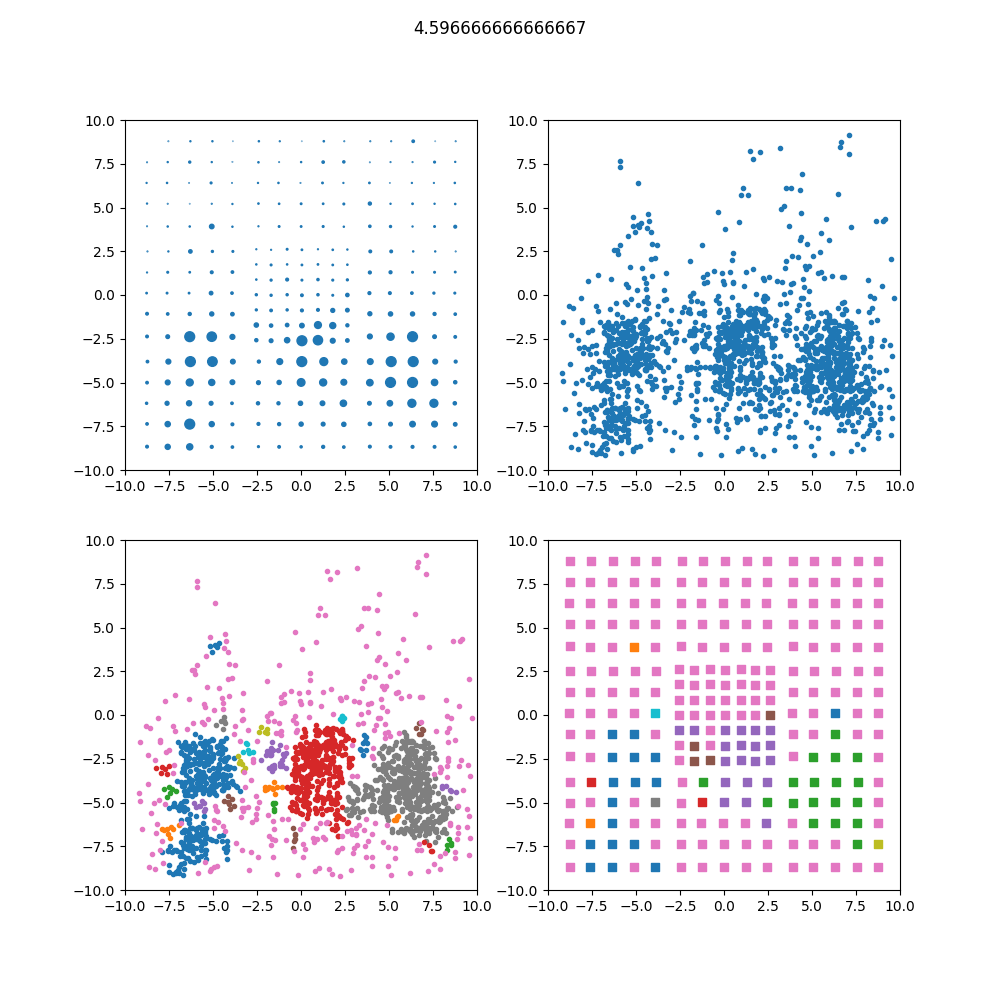
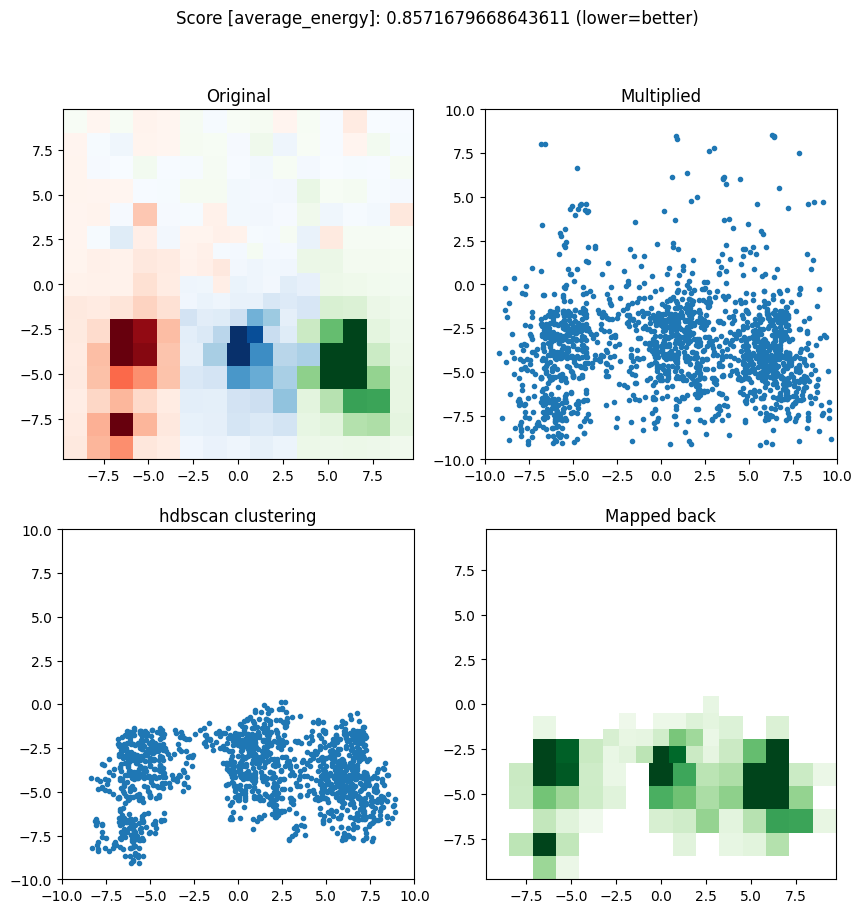
Latest changes

diff --git a/optimize.py b/optimize.py
@@ -22,7 +22,8 @@ from lib.modified_aggregation_clusterer import ModifiedAggregationClusterer
 import lib.base_nn as BNN
 import lib.unet_nn as UNet
 from lib.train import Train
-from lib import efficiency, coverage, vmeas, compute_score,              count_clusters,count_labels
+from lib.focal import FocalH
+from lib import efficiency, coverage, vmeas, compute_score, average_energy,              count_clusters,count_labels
 import torch
 import torch.nn as nn
 from sklearn.model_selection import train_test_split
@@ -117,21 +118,21 @@ def handle_method(data: Any, method: str, its: int):
             print(f"Optimizing {method_name}")
             study = sklearn_optimize(data, method, its)
             print("Study done. Saving to file.")
-            save_study(study, data, its, method_name)
+            save_study(study, data, its, method)
             print("Saved.")
 
         case "hdbscan":
             print(f"Optimizing {method_name}")
             study = sklearn_optimize(data, method, its)
             print("Study done. Saving to file.")
-            save_study(study, data, its, method_name)
+            save_study(study, data, its, method)
             print("Saved.")
 
         case "baygauss":
             print(f"Optimizing {method_name}")
             study = sklearn_optimize(data, method, its)
             print("Study done. Saving to file.")
-            save_study(study, data, its, method_name)
+            save_study(study, data, its, method)
             print("Saved.")
 
         case _:
@@ -204,7 +205,7 @@ def ma_optimize(data: Any, method: Any, its: int):
         score = np.zeros(len(values), dtype=np.float32)
         tags = ma_cluster.cluster(*pars, adj, values)
 
-        score = compute_score(tags, labels, values, "efficiency")
+        score = compute_score(tags, labels, values, "average_energy")
 
         return (score.mean()-1)**2
 
@@ -368,57 +369,61 @@ def sklearn_optimize(data, method, its):
                 pars = dict()
                 unpack_parameters(pars, trial, method) # Also does trial.suggest
                 model = mixture.BayesianGaussianMixture(**pars)
+            case "kmeans":
+                pars = dict()
+                unpack_parameters(pars, trial, method) # Also does trial.suggest
+                model = cluster.KMeans(**pars)
             case _:
                 raise ValueError(f"Unknown method: {method_name}")
 
         """
         Cluster and evaluate
         """
-        print(f"Clustering with {method_name}...")
         if method["labels"] == True:
             for i in range(len(X)):
                 model.fit(X[i])
                 Y[i] = model.labels_.astype(int)
-                Y[i] += Y[i]+1 # Not clustered is 0 in my clustering methods
+                Y[i] += 1 # Not clustered is 0 in my clustering methods
                 cl[i] = dataloader.kdtree_map(X[i], np.column_stack([x[i], y[i]]), Y[i])
         else:
             for i in range(len(X)):
                 model.fit(X[i])
                 Y[i] = model.predict(X[i])
-                Y[i] += Y[i]+1 # Not clustered is 0 in my clustering methods
+                Y[i] += 1 # Not clustered is 0 in my clustering methods
                 cl[i] = dataloader.kdtree_map(X[i], np.column_stack([x[i], y[i]]), Y[i])
 
-        score = np.zeros(N)
-        for i in range(N):
-            score[i] = efficiency(cl[i], dlab[i])
-        print(f"mean of score: {score.mean()}")
+        score_type = "average_energy"
+        score = compute_score(cl, dlab, z, score_type)
 
-        print("Done.")
-        print(f"{len(X)}, {len(Y)}")
         fig,ax=plt.subplots(nrows=2, ncols=2, figsize=(10,10))
-        fig.suptitle(f"{score.mean()}")
+        fig.suptitle(f"Score [{score_type}]: {score.mean()} (lower=better)")
         for a in ax.flatten():
             a.set_xlim(-10,10)
             a.set_ylim(-10,10)
         test_idx = 55
 
-        ax[0][0].scatter(x[test_idx], y[test_idx], s=50*z[test_idx]/z[test_idx].max())
+        iadj = np.load("p2_sim_adj_map2.npy")
+        SAT = 4096
+        foc = FocalH()
+        foc.heatmap(z[test_idx][iadj],dlab[test_idx][iadj],ax[0][0],SAT)
+        #ax[0][0].scatter(x[test_idx], y[test_idx], s=50*z[test_idx]/z[test_idx].max())
         ax[0][1].scatter(X[test_idx][:,0], X[test_idx][:,1], marker=".")
 
-        print(len([Y[test_idx]]))
         for l in set(Y[test_idx]):
             if l == 0:
                 continue
             mask = Y[test_idx] == l
             ax[1][0].scatter(X[test_idx][mask][:,0], X[test_idx][mask][:,1], marker=".")
 
-        for l in set(cl[test_idx]):
-            if l == 0:
-                continue
-            mask = cl[test_idx] == l
-            ax[1][1].scatter(x[test_idx][mask], y[test_idx][mask], marker="s")
+        foc.heatmap(z[test_idx][iadj],cl[test_idx][iadj],ax[1][1],SAT)
 
-        fig.savefig(f"dump/trans_test_{trial.number}.png")
+        ax[0][0].set_title(f"Original")
+        ax[0][1].set_title(f"Multiplied")
+        ax[1][0].set_title(f"{method_name} clustering")
+        ax[1][1].set_title(f"Mapped back")
+
+        fig.savefig(f"dump/trans_test_{trial.number}.png", bbox_inches="tight")
+        plt.clf()
 
         return (score.mean() - 1)**2
 

diff --git a/lib/metrics.py b/lib/metrics.py
@@ -45,11 +45,17 @@ def efficiency(clusters, labels):
         eff = 0
     return eff
 
+# Retire
 def clusters_sum(clusters, values):
     mask = clusters != 0
     return values[mask].sum().astype(float)
 
+# Retire
 def labels_sum(labels, values):
+    mask = labels != 0
+    return values[mask].sum().astype(float)
+
+def total(labels, values):
     mask = labels != 0
     return values[mask].sum().astype(float)
 
@@ -59,12 +65,23 @@ def coverage(clusters, labels, values):
     """
     cov = 0
     try:
-        clusters_sum(clusters,values) / labels_sum(labels,values)
+        total(clusters,values) / total(labels,values)
     except ZeroDivisionError:
         cov = 0
 
     return cov
 
+
+def average_energy(clusters, labels, values):
+    try:
+        cl_avg = total(clusters,values) / count(clusters)
+        lab_avg = total(labels,values) / count(labels)
+        # Check for NaN or inf in the result
+        if np.isnan(cl_avg) or np.isnan(lab_avg) or np.isinf(cl_avg) or np.isinf(lab_avg):
+            return 0
+    except ValueError:
+        return 0
+    return cl_avg/lab_avg
 
 def vmeas(clusters, labels):
     return v_measure_score(clusters, labels)
@@ -74,7 +91,11 @@ def vmeas_weighted(clusters, labels, values):
     Implement the weighted form I developed earlier.
     Could be interesting to see how they correlate.
     """
-    pass
+    norm = values / values.max()
+    vals = (100*norm).astype(int)
+    cl = np.repeat(clusters, vals)
+    lab = np.repeat(labels, vals)
+    return v_measure_score(cl, lab)
 
 def silh(clusters, labels):
     # Makes no sense...
@@ -95,9 +116,17 @@ def compute_score(tags, labels, values, score):
         for i in range(len(scores)):
             scores[i] = coverage(tags[i], labels[i], values[i])
         return scores
+    elif score == "average_energy":
+        for i in range(len(scores)):
+            scores[i] = average_energy(tags[i], labels[i], values[i])
+        return scores
     elif score == "vmeasure":
         for i in range(len(scores)):
             scores[i] = vmeas(tags[i], labels[i])
+        return scores
+    elif score == "vmeasure_weighted":
+        for i in range(len(scores)):
+            scores[i] = vmeas_weighted(tags[i], labels[i], values[i])
         return scores
     elif score == "count_labels":
         for i in range(len(scores)):

diff --git a/lib/__init__.py b/lib/__init__.py
@@ -10,6 +10,6 @@ from .train import Train
 from .modified_aggregation import ModifiedAggregation
 from .modified_aggregation_clusterer import ModifiedAggregationClusterer
 
-from .metrics import efficiency, coverage, vmeas, compute_score,                count_clusters,count_labels
+from .metrics import efficiency, coverage, vmeas, compute_score, average_energy,                count_clusters,count_labels
 
 from .focal import FocalH

diff --git a/lib/focal.py b/lib/focal.py
@@ -132,7 +132,7 @@ class FocalH:
             if l == 0:
                 c[mask] = [1,1,1,1]
                 continue
-            c[mask] = plt.colormaps[colors[l-1]](norm(values[mask]))
+            c[mask] = plt.colormaps[colors[(l-1)%len(colors)]](norm(values[mask]))
 
         patches = PatchCollection(self.polygons, alpha=1)
         patches.set_clim(0, saturation)
